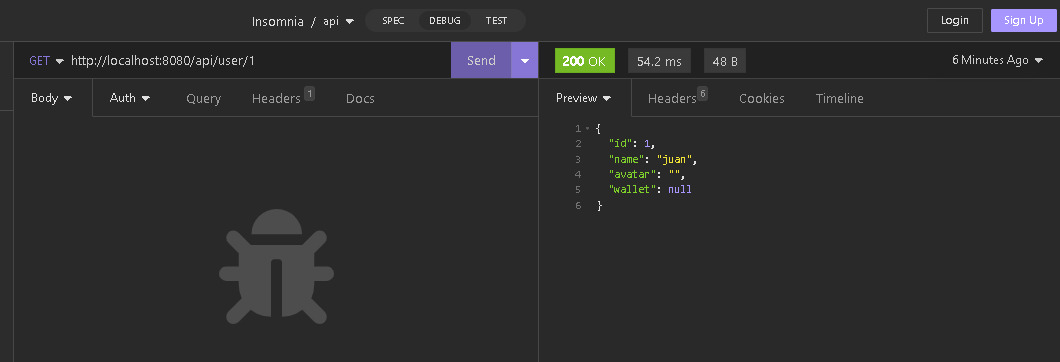
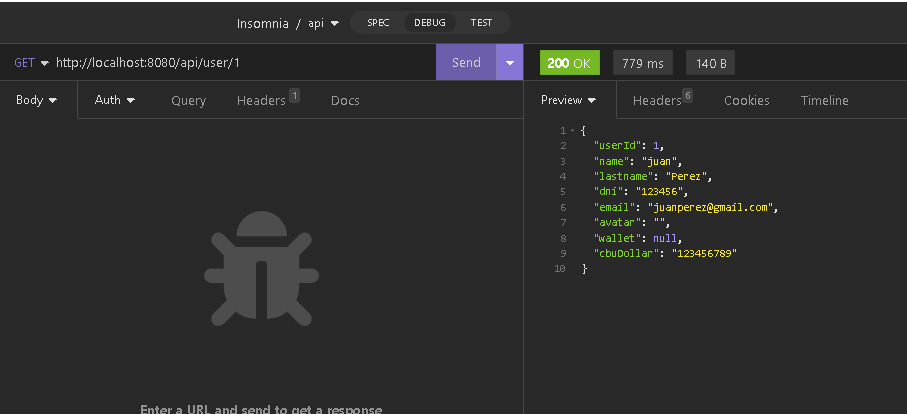
actualizando el userbyid para que me devuelva un objeto completo del usuario

diff --git a/back/app/src/main/java/payzo/app/dto/ResponseUserComplete.java b/back/app/src/main/java/payzo/app/dto/ResponseUserComplete.java
@@ -1,0 +1,24 @@
+package payzo.app.dto;
+
+import jakarta.persistence.Column;
+import jakarta.validation.constraints.NotBlank;
+import payzo.app.Model.User;
+
+import java.math.BigDecimal;
+import java.util.Optional;
+
+public record ResponseUserComplete(
+        @NotBlank Long userId,
+        @NotBlank String name,
+        String lastname,
+        String dni,
+        @NotBlank String email,
+        String avatar,
+        BigDecimal wallet,
+        String cbuDollar
+) {
+    public ResponseUserComplete(Optional<User> user) {
+        this(user.get().getUserId(), user.get().getName(), user.get().getLastname(), user.get().getDni(), user.get().getEmail(),
+                user.get().getAvatar(),user.get().getWallet(), user.get().getCbuDollar());
+    }
+}

diff --git a/back/app/src/main/java/payzo/app/Repository/impl/UserRepositoryImpl.java b/back/app/src/main/java/payzo/app/Repository/impl/UserRepositoryImpl.java
@@ -5,6 +5,7 @@ import org.springframework.beans.factory.annotation.Autowired;
 import org.springframework.stereotype.Service;
 import payzo.app.Model.User;
 import payzo.app.Repository.UserRepository;
+import payzo.app.dto.ResponseUserComplete;
 import payzo.app.dto.UserDtoLogin;
 import payzo.app.dto.UserDtoRegister;
 import payzo.app.dto.responseUser;
@@ -20,9 +21,9 @@ public class UserRepositoryImpl {
 
 
 
-    public responseUser findByUserId(Long id) {
+    public ResponseUserComplete findByUserId(Long id) {
         var user =  userRepository.findById(id);
-        return new responseUser(user);
+        return new ResponseUserComplete(user);
     }
 
     public responseUser userRegister(UserDtoRegister userDtoRegister) {
